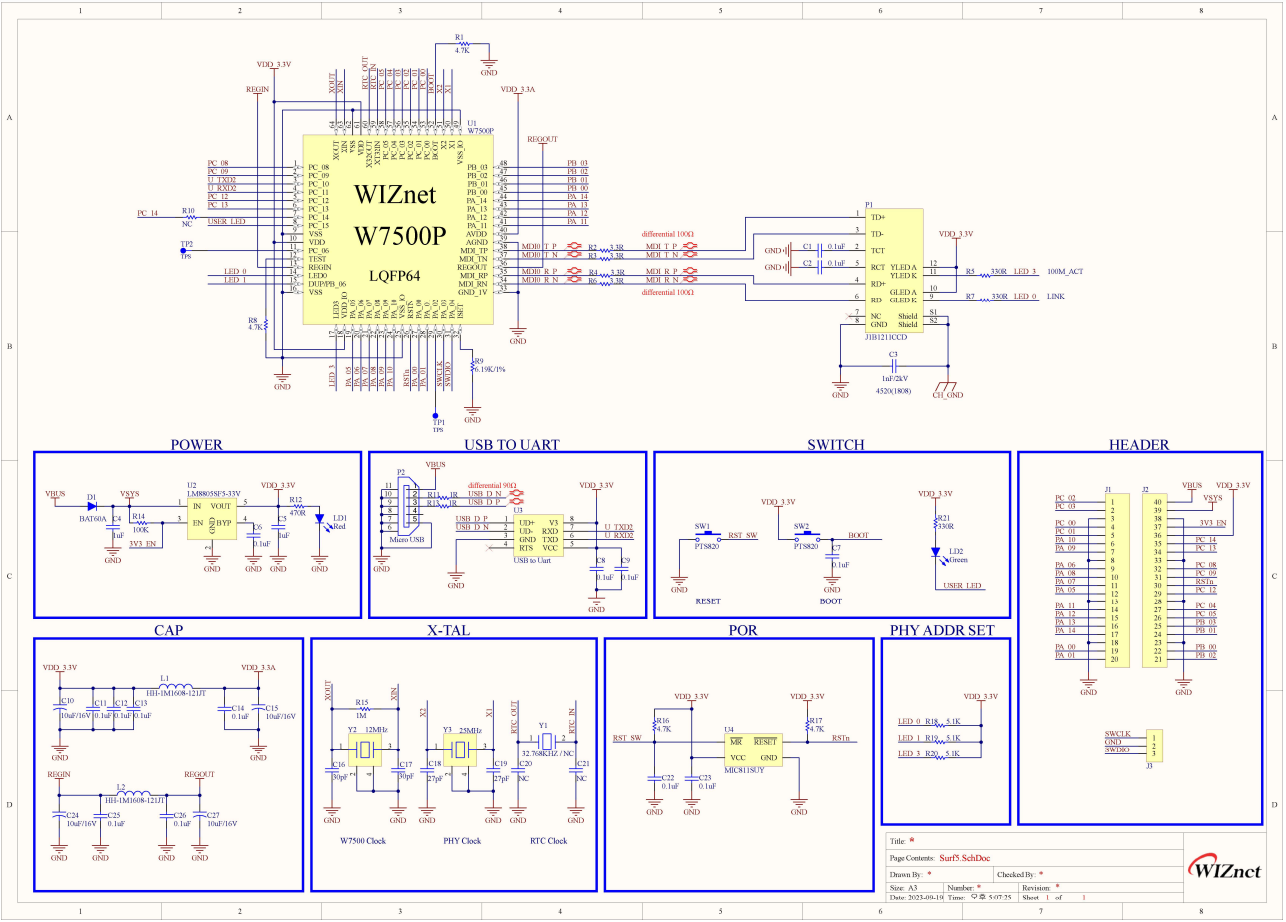
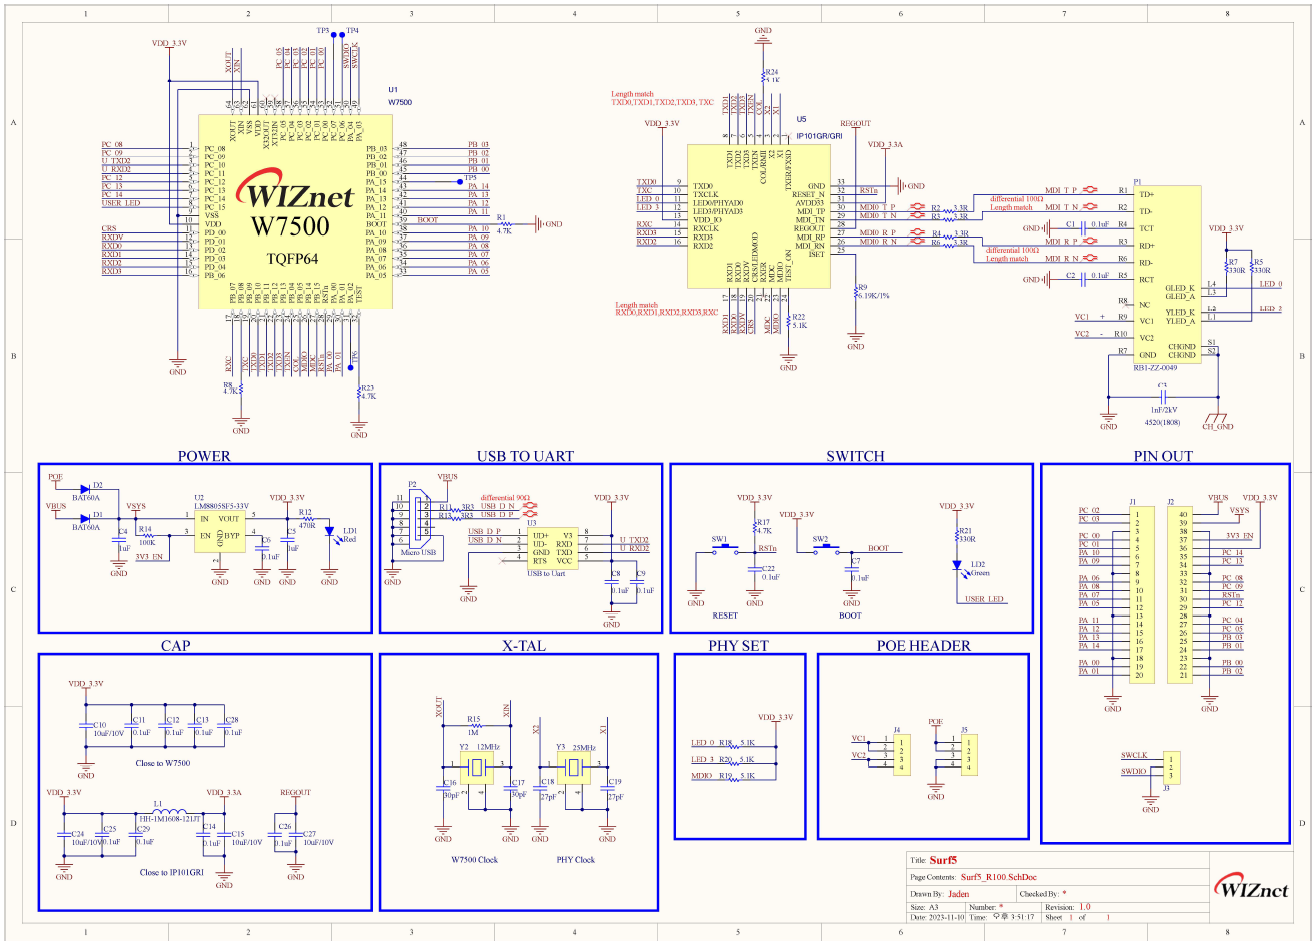
Surf5 img update

diff --git a/docs/Product/Open-Source-Hardware/surf5/surf5.md b/docs/Product/Open-Source-Hardware/surf5/surf5.md
@@ -39,7 +39,7 @@ Surf 5 is a microcontroller evaluation board based on the W7500.
 	  * 8-to-24MHz external crystal oscillator
 	  * Internal 8MHz RC Oscillator
 	  * PLL for CPU clock
-  * ADC : 12bit, 8ch, 1Msps
+  * ADC : 12bit, 8ch, 1Msps (Cannot use more than 2 channels simultaneously)
   * DMA
       * 6-channel DMA controller
       * Peripheral supported: UARTs, SPIs
@@ -54,7 +54,6 @@ Surf 5 is a microcontroller evaluation board based on the W7500.
   * Communication Interfaces
      * 3 UART (2 UARTs with FIFO and Flow Control, 1 simple UART)
      * 2 SPI
-     * 2 I2C (Master/Slave, Fast-mode (400 kbps))
   * Crypto
      * 1 RNG (Random Number Generator): 32-bit random number
   * Package
@@ -121,13 +120,13 @@ TBA
 - [datasheet](./../../iMCU/W7500/Documents.md)
 
 
-### Schematic v1.0
+### Schematic V1.0
 
 <a target="_blank" href={require('/img/osh/surf5/Surf5_1.0_Schematic.png').default}><img src={require('/img/osh/surf5/Surf5_1.0_Schematic.png').default} alt="Surf5_Schematic"/></a>
 
 ### Schematic & Part list & Gerber File
 
-- [Go to Github](https://github.com/Wiznet/Hardware-Files-of-WIZnet/tree/master/01_iMCU/W7500P/Surf5/Schematic)
+- [Go to Github](https://github.com/Wiznet/Hardware-Files-of-WIZnet/tree/master/01_iMCU/W7500/Surf5/R100/Schematic)
 
 <!--
 
